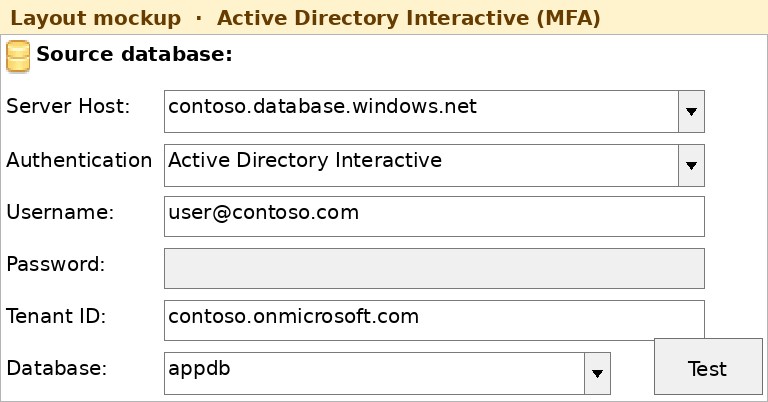
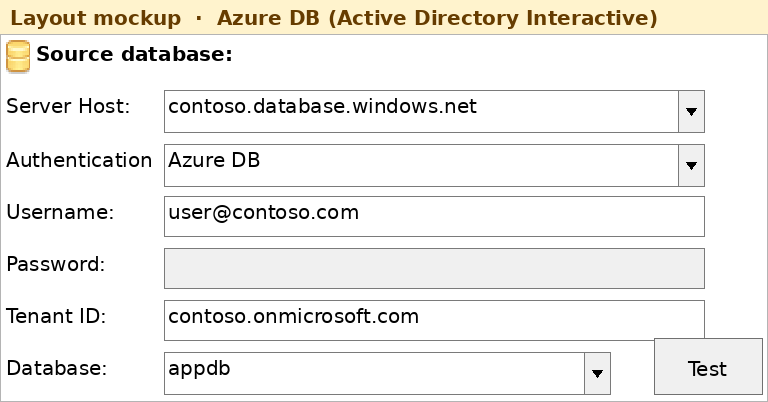
Show Azure DB as the Interactive authentication label
The dropdown text is display-only. Saved connection strings still use
Active Directory Interactive and load into that same mode.

Changed region(s): [[0.2812, 0.0, 0.875, 0.0896], [0.2188, 0.3582, 0.5938, 0.4179]]

diff --git a/OpenDBDiff.SqlServer.Ui/Front/SqlServerConnectFront.cs b/OpenDBDiff.SqlServer.Ui/Front/SqlServerConnectFront.cs
@@ -35,7 +35,7 @@ namespace OpenDBDiff.SqlServer.Ui
             {
                 "Windows Authentication",
                 "SQL Server Authentication",
-                "Active Directory Interactive",
+                "Azure DB",
                 "Active Directory Integrated",
                 "Active Directory Password",
                 "Active Directory Default"
@@ -43,13 +43,13 @@ namespace OpenDBDiff.SqlServer.Ui
             authenticationToolTip = new ToolTip();
             authenticationToolTip.SetToolTip(cboAuthentication,
                 "Windows and SQL Server authentication are unchanged.\r\n" +
-                "Active Directory Interactive signs in through the browser and supports MFA.\r\n" +
+                "Azure DB signs in through the browser and supports MFA (Active Directory Interactive).\r\n" +
                 "Active Directory Integrated uses the domain account (not the same as Windows authentication).\r\n" +
                 "Active Directory Password is the deprecated Entra username and password flow.\r\n" +
                 "Active Directory Default uses Azure CLI, Visual Studio, environment or managed identity credentials.");
             authenticationToolTip.SetToolTip(txtUsername,
                 "SQL login, or a Microsoft Entra user such as user@contoso.com.\r\n" +
-                "For Active Directory Interactive this is an optional sign-in hint, not a password.");
+                "For Azure DB this is an optional sign-in hint, not a password.");
             authenticationToolTip.SetToolTip(txtTenantId,
                 "Optional Entra tenant id or domain, for example contoso.onmicrosoft.com.\r\n" +
                 "Leave this blank to use the tenant the server publishes. It applies to the Active Directory modes.");
@@ -250,7 +250,7 @@ namespace OpenDBDiff.SqlServer.Ui
                 return "";
             return "\r\n\r\nFor Azure SQL, type the database name if the list stays empty. " +
                 "A contained Entra user often cannot open master, and sys.databases in a user database returns only that database. " +
-                "Active Directory Interactive opens a browser window; the connection waits two minutes so MFA can finish.";
+                "Azure DB opens a browser window; the connection waits two minutes so MFA can finish.";
         }
 
         private void AddComboItem(string item)

diff --git a/OpenDBDiff.SqlServer.Ui/Front/SqlServerConnectFront.Designer.cs b/OpenDBDiff.SqlServer.Ui/Front/SqlServerConnectFront.Designer.cs
@@ -108,7 +108,7 @@ namespace OpenDBDiff.SqlServer.Ui
             this.cboAuthentication.Items.AddRange(new object[] {
             "Windows Authentication",
             "SQL Server Authentication",
-            "Active Directory Interactive",
+            "Azure DB",
             "Active Directory Integrated",
             "Active Directory Password",
             "Active Directory Default"});

diff --git a/README.md b/README.md
@@ -53,7 +53,7 @@ Windows Authentication and SQL Server Authentication are built the same way as b
 
 The pictures below are **layout mockups** of the WinForms connection dialog (the GUI runs on Windows). They follow the control layout: which fields are enabled, and what each mode asks for.
 
-![Source database on Active Directory Interactive, destination on Windows Authentication](docs/images/connection-source-and-destination.png)
+![Source database on Azure DB, destination on Windows Authentication](docs/images/connection-source-and-destination.png)
 
 ### Authentication modes
 
@@ -61,12 +61,12 @@ The pictures below are **layout mockups** of the WinForms connection dialog (the
 | --- | --- | --- | --- | --- |
 | Windows Authentication | Unchanged. The Windows account connects directly to SQL Server. | Disabled | Disabled | Disabled |
 | SQL Server Authentication | Unchanged. A SQL login and password. | Required | Used | Disabled |
-| Active Directory Interactive | Microsoft Entra sign-in in a browser, including MFA. This is the mode to use for a person at the keyboard. The connection waits 120 seconds so the prompt can finish. | Optional sign-in hint (`user@contoso.com`) | Disabled | Optional |
+| Azure DB | The dropdown label for Active Directory Interactive. Microsoft Entra sign-in in a browser, including MFA. This is the mode to use for a person at the keyboard. The connection waits 120 seconds so the prompt can finish. Saved projects and the CLI still use `Authentication=Active Directory Interactive`. | Optional sign-in hint (`user@contoso.com`) | Disabled | Optional |
 | Active Directory Integrated | Entra token from the signed-in domain account (Integrated Windows Authentication against Entra). This is not Windows Authentication, and it cannot satisfy an MFA prompt. The WinForms app runs on .NET Framework, which does not accept a username for this mode. | Disabled | Disabled | Optional |
-| Active Directory Password | Entra username and password. Microsoft has deprecated this flow because it cannot do MFA. Prefer Interactive. | Required | Used | Optional |
+| Active Directory Password | Entra username and password. Microsoft has deprecated this flow because it cannot do MFA. Prefer Azure DB. | Required | Used | Optional |
 | Active Directory Default | Tries credentials already on the machine, in order: environment variables, workload identity, managed identity, and developer tools such as Visual Studio, Azure CLI and Azure PowerShell. It does not open a browser. The first connection can be slow. The wait is 120 seconds. | Optional user or client id | Disabled | Optional |
 
-![Active Directory Interactive, with the password box disabled](docs/images/connection-interactive.png)
+![Azure DB, the Active Directory Interactive mode, with the password box disabled](docs/images/connection-interactive.png)
 
 ![Active Directory Password](docs/images/connection-password.png)
 
@@ -102,11 +102,11 @@ Encryption stays on for these modes, and the server certificate is validated. Th
 In either database panel:
 
 1. **Server Host:** the Azure host name. You can include a port (`yourserver.database.windows.net,1433`) or the `tcp:` prefix.
-2. **Authentication:** one of the Active Directory modes. Interactive is the one that supports MFA.
-3. **Username:** the Entra user when the mode asks for it. For Interactive it is only a hint in the browser prompt.
+2. **Authentication:** **Azure DB** for a person signing in with MFA. The other Active Directory entries are Integrated, Password and Default.
+3. **Username:** the Entra user when the mode asks for it. For Azure DB it is only a hint in the browser prompt.
 4. **Tenant ID:** leave blank unless you need to override the server's tenant.
 5. **Database:** type the database name. On Azure SQL Database, `sys.databases` in a user database returns only that database, and a contained user often cannot open `master`, so the drop-down may list a single name or fail until you type one.
-6. **Test**, then compare as usual. Interactive opens a browser window.
+6. **Test**, then compare as usual. Azure DB opens a browser window.
 
 The same connection string works on the CLI (`--before` and `--after`). Examples:
 
@@ -118,7 +118,7 @@ Server=tcp:yourserver.database.windows.net,1433;Database=appdb;Authentication=Ac
 Server=tcp:yourmi.public.uniqueid.database.windows.net,1433;Database=appdb;Authentication=Active Directory Interactive;Encrypt=True
 ```
 
-`Authentication=ActiveDirectoryInteractive` (no spaces) is the same mode. To force a tenant from the CLI, add `Application Name="OpenDBDiff|EntraTenant=contoso.onmicrosoft.com"`.
+`Authentication=ActiveDirectoryInteractive` (no spaces) is the same mode. That keyword is what a saved project stores. The connection dialog shows it as **Azure DB**. To force a tenant from the CLI, add `Application Name="OpenDBDiff|EntraTenant=contoso.onmicrosoft.com"`.
 
 ### Azure SQL Database and Managed Instance
 
